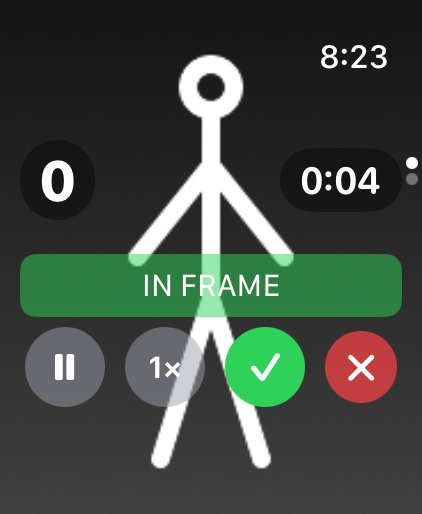
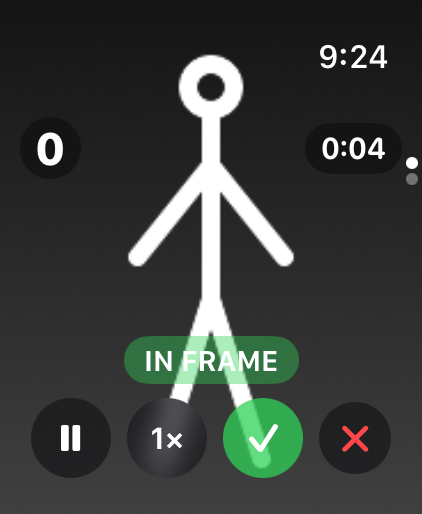
Watch picture page covers less: small chips under the clock, a capsule hint, glass buttons along the bottom edge (story 042)
Igor, 2026-09-14: "avoid covering the screen, get those buttons in the
bottom, get the preview out of the way, but make sure my tap targets are
usable; use more transparency." Chips drop to 24/16 pt right under the
clock line; the hint is a capsule as wide as its words above the row; the
row moves into the bottom safe area (lifted 18 pt, inset 10 pt, 40 pt
buttons 8 pt apart, 200 pt on the 205 pt face); Pause, Camera and Cancel
are ultra-thin material with the picture showing through, Record and Done
keep their colour at 80/75 %. Verified: just watch-screens on the Apple
Watch Ultra 3 (49mm), eight states; the simulator raster has no corner
mask, so the wrist decides the corners. Screenshots refreshed.

Claude-Session: https://claude.ai/code/session_01988Ac2mapa3uBZQT7PxuGe

diff --git a/ExerciseAnalyzerWatch/WatchContentView.swift b/ExerciseAnalyzerWatch/WatchContentView.swift
@@ -96,11 +96,13 @@ struct WatchContentView: View {
     .tabViewStyle(.verticalPage)
   }
 
-  /// Page one: the preview filling the screen, chips over its top corners, the hint bar and the round buttons
-  /// over its bottom edge. No picture yet: the same overlays on black. Only the picture ignores the safe area:
-  /// the chips sit below the system clock line, and the button row lives in a bottom safeAreaInset lifted 20 pt,
-  /// inset 8 pt from both sides with 40 pt buttons 10 pt apart (202 pt on the Ultra's 205 pt face), so the bezel
-  /// and the rounded corners keep nothing (refs #74). A row wider than the face widens the whole overlay.
+  /// Page one: the preview filling the screen, small chips right under the clock line, a compact hint capsule
+  /// and the round buttons along the bottom edge of the safe area. No picture yet: the same overlays on black.
+  /// Only the picture ignores the safe area. The overlays cover as little of the picture as 40 pt targets allow
+  /// (Igor, 2026-09-14: "avoid covering the screen, buttons at the bottom, more transparency"): the row is
+  /// inset 10 pt from both sides with 40 pt buttons 8 pt apart (200 pt on the Ultra's 205 pt face), inside the
+  /// bottom safe area and lifted 18 pt, so the rounded corners keep nothing (refs #74). A row wider than the face
+  /// widens the whole overlay.
   /// The picture is a `background`, never a ZStack sibling: a scaled-to-fill image reports its overflowing size
   /// and a ZStack grows to it, which pushed the chips and the row past the screen edges on the Ultra.
   private var recordingPicturePage: some View {
@@ -127,45 +129,45 @@ struct WatchContentView: View {
           HStack {
             Spacer()
             Text("PREVIEW")
-              .font(.system(size: 20, weight: .semibold, design: .rounded))
-              .padding(.horizontal, 10).padding(.vertical, 4)
+              .font(.system(size: 15, weight: .semibold, design: .rounded))
+              .padding(.horizontal, 8).padding(.vertical, 2)
               .background(.ultraThinMaterial, in: Capsule())
             Spacer()
           }
           .padding(.horizontal, 8)
-          .padding(.top, 20)
+          .padding(.top, 2)
         } else {
           HStack {
             Text("\(status.reps)")
-              .font(.system(size: 30, weight: .bold, design: .rounded))
-              .padding(.horizontal, 10).padding(.vertical, 2)
+              .font(.system(size: 24, weight: .bold, design: .rounded))
+              .padding(.horizontal, 8).padding(.vertical, 1)
               .background(.ultraThinMaterial, in: Capsule())
             Spacer()
             Text(elapsed).monospacedDigit()
-              .font(.system(size: 20, weight: .semibold, design: .rounded))
-              .padding(.horizontal, 10).padding(.vertical, 4)
+              .font(.system(size: 16, weight: .semibold, design: .rounded))
+              .padding(.horizontal, 8).padding(.vertical, 3)
               .background(.ultraThinMaterial, in: Capsule())
           }
           .padding(.horizontal, 8)
-          .padding(.top, 20)
+          .padding(.top, 2)
         }
         Spacer()
+        // A capsule as wide as its words, not a bar across the picture; red stays strong enough to read.
         Text(hintText)
-          .font(.caption).multilineTextAlignment(.center)
-          .frame(maxWidth: .infinity)
-          .padding(.vertical, 6)
-          .background(status.frame.inFrame ? Color.green.opacity(0.5) : Color.red.opacity(0.7), in: RoundedRectangle(cornerRadius: 8))
-          .padding(.horizontal, 8)
+          .font(.caption2.weight(.semibold)).multilineTextAlignment(.center)
+          .padding(.horizontal, 10).padding(.vertical, 3)
+          .background(status.frame.inFrame ? Color.green.opacity(0.4) : Color.red.opacity(0.7), in: Capsule())
+          .padding(.bottom, 2)
       }
       .safeAreaInset(edge: .bottom) {
-        HStack(spacing: 10) {
+        HStack(spacing: 8) {
           if status.viewfinder {
             // Record · Camera · Cancel: no Pause, no Done (047).
             Button { phone.send(.start) } label: {
               Image(systemName: "record.circle")
                 .font(.body)
                 .frame(width: 40, height: 40)
-                .background(Color.red, in: Circle())
+                .background(Color.red.opacity(0.8), in: Circle())
                 .foregroundStyle(.white)
             }
             .buttonStyle(.plain)
@@ -177,7 +179,7 @@ struct WatchContentView: View {
               Image(systemName: status.paused ? "play.fill" : "pause.fill")
                 .font(.body)
                 .frame(width: 40, height: 40)
-                .background(status.paused ? Color.orange : Color.gray.opacity(0.5), in: Circle())
+                .background(status.paused ? AnyShapeStyle(Color.orange.opacity(0.8)) : AnyShapeStyle(.ultraThinMaterial), in: Circle())
                 .foregroundStyle(.white)
             }
             .buttonStyle(.plain)
@@ -187,7 +189,7 @@ struct WatchContentView: View {
               Image(systemName: "checkmark")
                 .font(.body.bold())
                 .frame(width: 40, height: 40)
-                .background(Color.green, in: Circle())
+                .background(Color.green.opacity(0.75), in: Circle())
                 .foregroundStyle(.white)
             }
             .buttonStyle(.plain)
@@ -195,9 +197,13 @@ struct WatchContentView: View {
             faceCancelButton
           }
         }
-        .padding(.horizontal, 8)
-        .padding(.bottom, 20)
+        .padding(.horizontal, 10)
+        .padding(.bottom, 18)
       }
+      // The row lives in the bottom safe area (the Ultra reserves ~34 pt there): lifted 18 pt and inset 10 pt,
+      // the outer buttons' lower corners stay outside a 60 pt corner radius. The phone rung is the truth for
+      // the real bezel; the simulator raster has no corner mask.
+      .ignoresSafeArea(edges: .bottom)
   }
 
   /// The round camera-cycler both face rows share.
@@ -207,7 +213,7 @@ struct WatchContentView: View {
         .font(.caption.bold())
         .minimumScaleFactor(0.5).lineLimit(1)
         .frame(width: 40, height: 40)
-        .background(Color.gray.opacity(0.5), in: Circle())
+        .background(.ultraThinMaterial, in: Circle())
         .foregroundStyle(.white)
     }
     .buttonStyle(.plain)
@@ -220,8 +226,8 @@ struct WatchContentView: View {
       Image(systemName: "xmark")
         .font(.body.bold())
         .frame(width: 36, height: 36)
-        .background(Color.red.opacity(0.7), in: Circle())
-        .foregroundStyle(.white)
+        .background(.ultraThinMaterial, in: Circle())
+        .foregroundStyle(.red)
     }
     .buttonStyle(.plain)
     .accessibilityLabel("Cancel")

diff --git a/docs/stories/05-watch.md b/docs/stories/05-watch.md
@@ -16,9 +16,9 @@ it. Not states: the face complication (043, requested) and the phone's lock-scre
 | background | phone-in-background art, unlock-and-open instruction | "Send a reminder to the phone" (no Record: it would die silently) | 018 |
 | idle | "Phone ready", exercise picker, rest length picker, rest count while resting, last-set line (or "Analyzing…" while the pass runs) | Record (red; from the wrist the phone follows into watch mode), Preview (neutral, below Record) | 017, 041, 045, 046, 047 |
 | viewfinder | full-screen picture, "PREVIEW" chip, in-frame bar | Record (red) · Camera · Cancel (no Pause, no Done) | 047 |
-| live | full-screen picture, rep chip 0, time chip 0:04 under the clock line, green "IN FRAME" bar; chips, bar and buttons whole inside the face | Pause, Camera, Done, Cancel (round, over the picture; Cancel red and last); second page: Cancel, watch-mode toggle | 016, 017, 042 |
-| recording | full-screen picture, 6-rep chip, 0:42, red "FEET CUT OFF" bar | Pause, Camera, Done, Cancel; second page: Cancel, watch-mode toggle | 016, 017, 042 |
-| paused | "PAUSED · FEET CUT OFF" bar, frozen count and time, picture keeps refreshing | orange Resume, Camera, Done, Cancel; second page: Cancel | 040 |
+| live | full-screen picture, small rep chip 0 and time chip 0:04 right under the clock line, green "IN FRAME" capsule above the row; chips, capsule and buttons whole inside the face and covering as little of the picture as 40 pt targets allow | Pause, Camera, Done, Cancel (round, translucent glass except Done green and Record red, along the bottom edge; Cancel a red X last); second page: Cancel, watch-mode toggle | 016, 017, 042 |
+| recording | full-screen picture, 6-rep chip, 0:42, red "FEET CUT OFF" capsule | Pause, Camera, Done, Cancel; second page: Cancel, watch-mode toggle | 016, 017, 042 |
+| paused | "PAUSED · FEET CUT OFF" capsule, frozen count and time, picture keeps refreshing | orange Resume, Camera, Done, Cancel; second page: Cancel | 040 |
 | done | "Phone ready", "Last set: 9 reps · Kettlebell Swing · 0:48", rest counting up ("Rest 0:35", orange past the length) | Record (clears the rest), rest picker, exercise picker | 045, 046 |
 
 Igor's framing-loop rule: the camera-live page needs the picture, the in-frame bar, Camera, Done and Cancel, all
@@ -208,7 +208,7 @@ nothing. The phone's own Live still records from the first frame (story 001).
 ### User Story 042:
 
 - **Summary:** The picture fills the watch and the controls sit on it
-- **Status:** implemented in 08c563c; layout redone for the Ultra in a0053c6, c550f16, 1c34133, 5622ee1 (picture as a background, four buttons inside the 205 pt face, chips under the clock) and verified with `just watch-screens` on the Apple Watch Ultra 3 (49mm) simulator; framing-before-recording scenario in [4bf497b](https://github.com/idvorkin/exercise-analyzer/commit/4bf497b) (story 047); on phone + watch 2026-09-14 ([#67](https://github.com/idvorkin/exercise-analyzer/issues/67), Igor by voice, 2026-09-13: "make the preview larger and overlay the buttons a lot"; [#74](https://github.com/idvorkin/exercise-analyzer/issues/74) the regression that cost the controls)
+- **Status:** implemented in 08c563c; layout redone for the Ultra in a0053c6, c550f16, 1c34133, 5622ee1 (picture as a background, four buttons inside the 205 pt face, chips under the clock) and verified with `just watch-screens` on the Apple Watch Ultra 3 (49mm) simulator; framing-before-recording scenario in [4bf497b](https://github.com/idvorkin/exercise-analyzer/commit/4bf497b) (story 047); the transparency pass (small chips under the clock, capsule hint, glass buttons along the bottom edge) is the commit after 34c17fa, verified on the Ultra 3 simulator, needs the wrist for the corner check; on phone + watch 2026-09-14 ([#67](https://github.com/idvorkin/exercise-analyzer/issues/67), Igor by voice, 2026-09-13: "make the preview larger and overlay the buttons a lot"; [#74](https://github.com/idvorkin/exercise-analyzer/issues/74) the regression that cost the controls)
 - **Why:** the preview is a 90 pt strip above a column of buttons; from across the room the strip is what matters and the buttons are what Igor already knows.
 
 #### Use Case:
@@ -220,7 +220,7 @@ nothing. The phone's own Live still records from the first frame (story 001).
 - **Scenario:** The recording screen on a 45 mm watch
 - **Given:** a set is being recorded and the watch app is in front
 - **When:** I raise my wrist
-- **Then:** the picture fills the screen edge to edge, the rep count and the elapsed time sit on translucent chips under the clock line, the in-frame hint is a bar over its bottom edge (green in frame, red when cut off), four round buttons overlay the bottom, Pause/Resume, Camera, Done and a smaller red Cancel last, all whole inside the face's rounded corners; the watch-mode toggle, the exercise and a second Cancel are on the page below (vertical page swipe); the picture refreshes about once a second at twice today's resolution (long side 320 px instead of 176, about 15–25 KB a frame, under WatchConnectivity's 65 KB message limit)
+- **Then:** the picture fills the screen edge to edge, the rep count and the elapsed time sit on small translucent chips right under the clock line, the in-frame hint is a capsule as wide as its words just above the buttons (green in frame, red when cut off), four round buttons sit along the bottom edge, Pause/Resume, Camera, Done and a smaller Cancel last, translucent glass except Done (green) and Record (red) so the picture shows through, 40 pt targets, all whole inside the face's rounded corners, covering as little of the picture as those targets allow (Igor, 2026-09-14: "avoid covering the screen, buttons at the bottom, more transparency"); the watch-mode toggle, the exercise and a second Cancel are on the page below (vertical page swipe); the picture refreshes about once a second at twice today's resolution (long side 320 px instead of 176, about 15–25 KB a frame, under WatchConnectivity's 65 KB message limit)
 
 - **Scenario:** Framing the shot from Live's first frame
 - **Given:** the phone is ready and the watch app is in front
